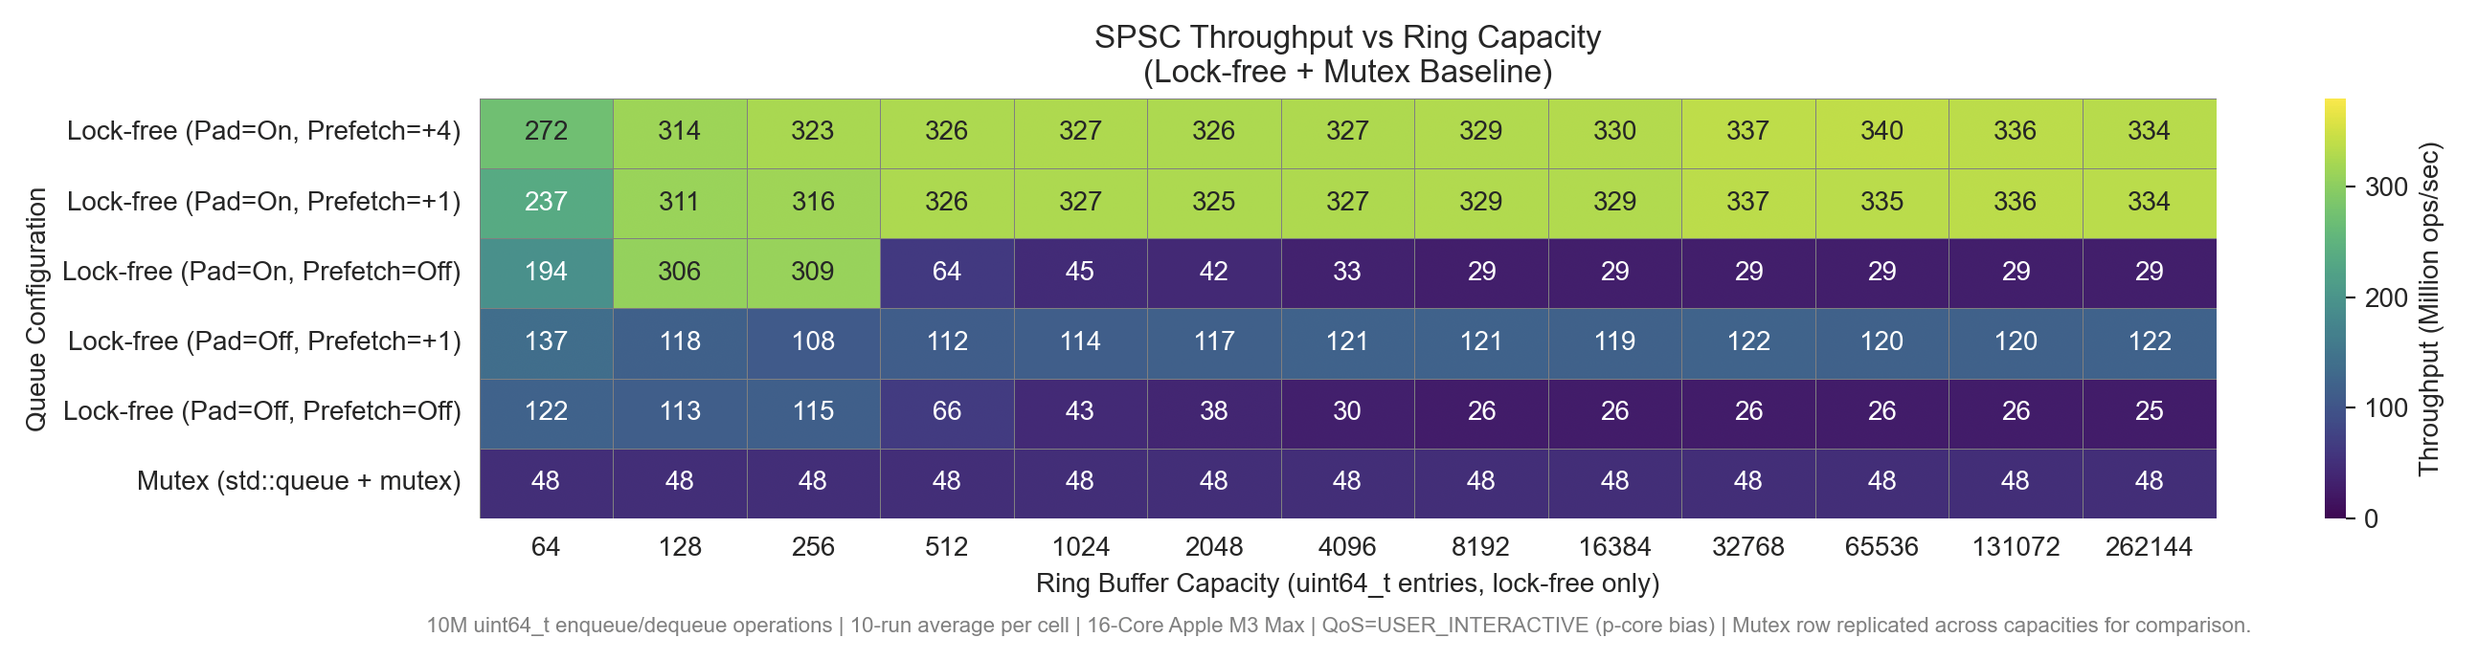
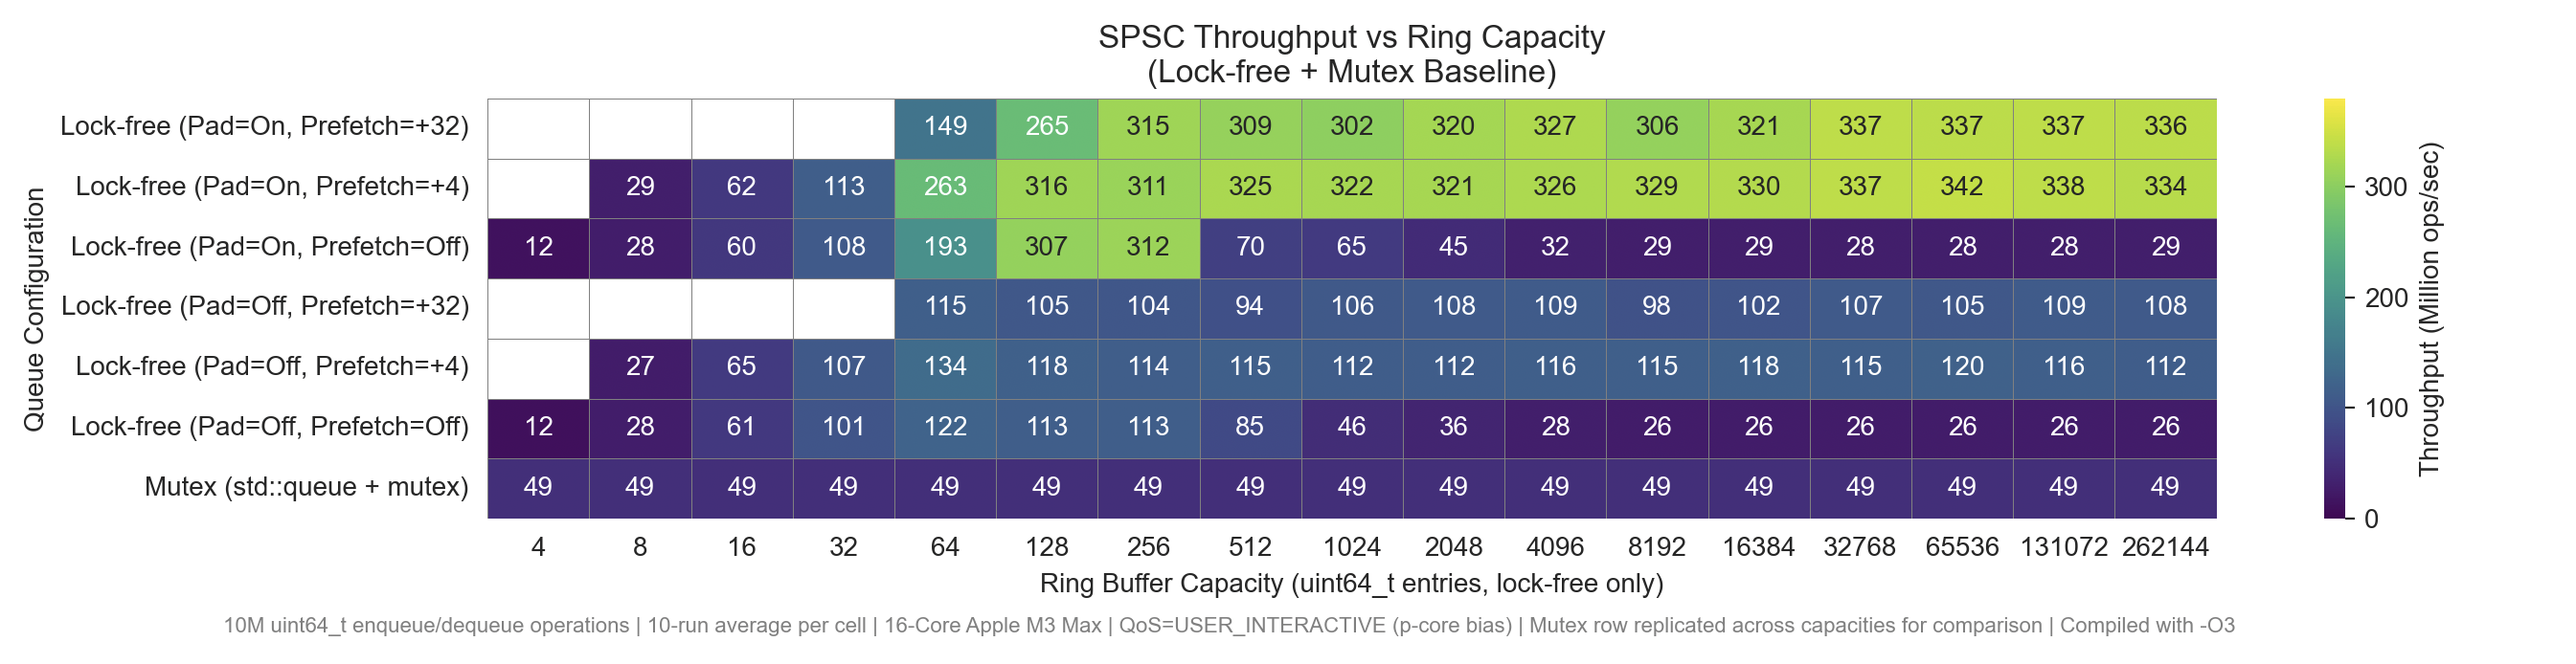
prefetch experimentation

Changed region(s): [[0.0, 0.0304, 0.9892, 0.9739]]

diff --git a/examples/spsc_queue/spsc_queue.test.cpp b/examples/spsc_queue/spsc_queue.test.cpp
@@ -37,6 +37,19 @@ static inline void set_affinity_tag(int tag) {
 
 #endif
 
+
+static inline void cpu_wait() noexcept {
+#if defined(__aarch64__)
+    __asm__ __volatile__("yield");
+#elif defined(__x86_64__)
+    _mm_pause();
+#else 
+    __asm__ __volatile__("" ::: "memory");
+#endif
+}
+
+
+
 static inline void setup_benchmark_thread() {
 #if defined(__APPLE__)
     set_qos_high(true);
@@ -58,7 +71,7 @@ ThreadPair dispatchThreads(QueueType& queue, std::uint64_t number) {
 
             for (uint64_t i = number; i > 0; --i) {
                 while (!queue.try_enqueue(i)) {
-                    std::this_thread::yield();
+                    std::this_thread::yield(); 
                 }
             }
         })
@@ -78,7 +91,7 @@ ThreadPair dispatchThreads(QueueType& queue, std::uint64_t number) {
                     }                    
                     decrementor--;
                 }
-                else std::this_thread::yield();
+                else std::this_thread::yield(); 
             }
         })        
     };
@@ -117,21 +130,23 @@ void vary_parameters_per_capacity(std::uint64_t number, uint8_t num_sims) {
         constexpr bool cache_padding   = decltype(ena_cache_padding)::value;
         constexpr std::size_t prefetch = decltype(ena_prefetch)::value;
 
-        double time_sum = 0;
-        double minimum  = std::numeric_limits<double>::max();
-        double maximum  = 0;
-        double current_sim_length = 0;
+        if constexpr (prefetch < (capacity - 2)) {
+            double time_sum = 0;
+            double minimum  = std::numeric_limits<double>::max();
+            double maximum  = 0;
+            double current_sim_length = 0;
 
-        for (uint8_t sim_num = 0; sim_num < num_sims; sim_num++) {
-            current_sim_length = run_single_sim<capacity, cache_padding, prefetch>(number);
-            time_sum += current_sim_length;
+            for (uint8_t sim_num = 0; sim_num < num_sims; sim_num++) {
+                current_sim_length = run_single_sim<capacity, cache_padding, prefetch>(number);
+                time_sum += current_sim_length;
 
-            if (current_sim_length < minimum) minimum = current_sim_length;
-            if (current_sim_length > maximum) maximum = current_sim_length;
+                if (current_sim_length < minimum) minimum = current_sim_length;
+                if (current_sim_length > maximum) maximum = current_sim_length;
+            }
+
+            double avg_sim_time = time_sum / num_sims;
+            std::cout << "lock-free,uint64_t," << int(num_sims) << "," << capacity << "," << cache_padding << "," << prefetch << "," << avg_sim_time << "," << maximum << "," << minimum << "," << number << "\n";
         }
-
-        double avg_sim_time = time_sum / num_sims;
-        std::cout << "lock-free,uint64_t," << int(num_sims) << "," << capacity << "," << cache_padding << "," << prefetch << "," << avg_sim_time << "," << maximum << "," << minimum << "," << number << "\n";
     };
 
     using prefetchOff = std::integral_constant<std::size_t, 0>;
@@ -140,12 +155,16 @@ void vary_parameters_per_capacity(std::uint64_t number, uint8_t num_sims) {
     using prefetchFour = std::integral_constant<std::size_t, 4>;
     using prefetchEight= std::integral_constant<std::size_t, 8>;
     using prefetchSixteen= std::integral_constant<std::size_t, 16>;
+    using prefetchThirtyTwo= std::integral_constant<std::size_t, 32>;
+    using prefetchSixtyFour= std::integral_constant<std::size_t, 64>;
 
     // note that prefetch is a uint8_t now.....
     run_sims(std::bool_constant<false>{}, prefetchOff{});
     run_sims(std::bool_constant<false>{}, prefetchOne{});
     //run_sims(std::bool_constant<false>{}, prefetchTwo{});
     run_sims(std::bool_constant<false>{}, prefetchFour{});
+    run_sims(std::bool_constant<false>{}, prefetchThirtyTwo{});
+    //run_sims(std::bool_constant<false>{}, prefetchSixtyFour{});
     //run_sims(std::bool_constant<false>{}, prefetchEight{});
     //run_sims(std::bool_constant<false>{}, prefetchSixteen{});
 
@@ -155,6 +174,8 @@ void vary_parameters_per_capacity(std::uint64_t number, uint8_t num_sims) {
     run_sims(std::bool_constant<true>{},  prefetchFour{});
     //run_sims(std::bool_constant<true>{},  prefetchEight{});
     //run_sims(std::bool_constant<true>{},  prefetchSixteen{});
+    run_sims(std::bool_constant<true>{}, prefetchThirtyTwo{});
+    //run_sims(std::bool_constant<true>{}, prefetchSixtyFour{});
 }
 
 template <std::size_t... capacities>
@@ -191,7 +212,7 @@ int main() {
     constexpr uint8_t  num_sims = 10;
 
     std::cout << "queue_type,type,numsims,capacity,cache_padding,prefetch,avg_sim_time,max_sim_time,min_sim_time,num_enq_deq\n";
-    run_many_capacities<64, 128, 256, 512, 1024, 2048, 4096, 8192, 16384, 32768, 65536, 131072, 262144/*, 524288, 1048576, 2097152, 4194304*/>(number, num_sims);
+    run_many_capacities<4, 8, 16, 32, 64, 128, 256, 512, 1024, 2048, 4096, 8192, 16384, 32768, 65536, 131072, 262144/*, 524288, 1048576, 2097152, 4194304*/>(number, num_sims);
     run_mutex_queue(number, num_sims);
 
     return 0;

diff --git a/include/foundry_runtime/atomic_spsc_queue/spsc_queue.h b/include/foundry_runtime/atomic_spsc_queue/spsc_queue.h
@@ -31,7 +31,7 @@ class spsc_queue {
     static_assert(capacity >= 2);
     static_assert(std::is_trivially_copyable_v<T>, "Trivially Copyable T NOT Provided...");    
     static_assert((capacity & (capacity - 1)) == 0, "capacity must be power of two...");
-    static_assert((prefetch_distance < (capacity / 2)));
+    static_assert((prefetch_distance < (capacity - 2)));
 
     static constexpr std::size_t capacity_mask = capacity - 1;
 
@@ -97,7 +97,6 @@ public:
             cached_write_loc = write_next.r_w_index.load(std::memory_order_acquire);
             if (current_read_loc == cached_write_loc) return false;
         }
-
         if constexpr (prefetch_distance > 0) {
             const auto prefetch_index = (current_read_loc + prefetch_distance) & capacity_mask;
             sw_prefetch_read(&queue[prefetch_index]);

diff --git a/README.md b/README.md
@@ -1,6 +1,32 @@
-## Foundry Runtime
+# Foundry Runtime
 This is a collection of various runtime tools as well as a personal exploration/proving ground. I will add descriptions to this doc as the tools are written and provide APIs/a usage guide.  
 
-### SPSC Lock-Free Queue
+## SPSC Lock-Free Queue
+This is a single-producer, single-consumer lock-free queue implementation. It currently only works for trivially copyable types (proof of concept), but I am currently working on making it valid for all types. The API is quite simple and is intended to be used by two separate threads (consumer and producer).  
+  
+It is defined as follows:  
+```
+foundry_runtime::spsc_queue<class T, size_t capacity = 128, bool enable_cacheline_padding = false, size_t prefetch_distance = 0>
+```
+`T` is the type contained in the queue. Currently it is only valid for trivially copyable types and will generate a compiler error otherwise.  
+  
+`capacity` is the size of the ring-buffer (just an array of type T) that the queue is implemented as. `capacity` must be a power of 2.  
+  
+`enable_cacheline_padding` is a performance optimization that stores the atomic read and write (enqueue + dequeue) indices into a struct that is aligned to the size of a cacheline (128 bytes for Apple M-Series computers). This struct is then padded with a char buffer that is never referenced to the length of the cacheline not occupied by the atomic index. As a result, we don't get cache invalidate ping-pong between the two cores running the producer and consumer threads (especially when the read and write indices would share the same cacheline otherwise). 
+   
+`prefetch_distance` is another performance optimization that uses software read and write prefetch instructions to hint the CPU to pull entries in the ring buffer into the L1 cache of the core running the thread that will soon need them before a read or write occurs. This reduces CPU stalls while the core goes and fetches the line (can be 100s of wasted cycles if not more). The distance ahead in the queue (array) that will be prefetched can be modulated by this template parameter. 0 disables prefetch. Any number beyond this specifies how many entries ahead we prefetch. For example, if we have a uint64_t and specify a `prefetch_distance` of 4, then we will be prefetching 32 bytes ahead (on M3 a quarter-line).  
+  
 
-![Example Image](examples/spsc_queue/figures/spsc_data.png)
+### SPSC Queue Performance Experiments
+Although I definitely have some utility for this, I used this as an exercise to explore how these various optimizations vary in performance with various ring buffer capacities. I also compared performance to generic mutex wrapped `std::queue`. I ran 10 million enqueue and dequeue operations 10 times per queue size and optimization permutation and averaged the result into one entry in the plot below. These were all run on my Apple M3 Max with `QoS=USER_INTERACTIVE` to bias towards p-cores, although MacOS provides no user APIs I am aware of that allows me explicitly schedule a thread to be run on a p-core. It is additionally worth noting that I compiled with the -O3 clang compiler flag and that the producer/consumer threads yield on a failure to enqueue or dequeue although experiments with busy waiting did not meaningfully change performance.  
+  
+![SPSC Optimization Data](examples/spsc_queue/figures/spsc_data.png)
+The results are quite interesting and illustrate some interesting microarchitectural performance regimes. I will lay out some of my observations and interpretations below. 
+1. The lock-free queue of `uint64_t` without prefetch and r/w index padding outperforms a standard mutex queue between ~16-512 entries (128 B to 4 KB). In this range, the entire ring buffer fits easily within each core's 128 KB L1d and is thus not bound by capacity and L2/L3 latency. The mutex implementation adds memory fences, lock/unlock operations, as well as additional branching to serialize execution independent of cacheline contention. The lock-free implementation instead uses atomic r/w index updates. Despite significant traffic between cores, the lock-free queue achieves ~2x throughput in this range (really just ~32-256).  
+At small sizes (~4-16 entries), the producer and consumer repeatedly operate on the same cachelines in tight sequence. Each enqueue requires exclusive line ownership with subsequent reads from the consumer. The lines are invalidated and ownership is transferred between cores so frequently that the queue stalls, throttling throughput.  
+For larger queue sizes (>~512 entries), although they are all relatively small/fit entirely in the L1d, the reuse distance increases. As a result these lines are less likely to remain hot in the producer's L1d. Without software prefetch, enqueue operations (queue writes) see read for ownership (RFO) latency begin to dominate causing the throughput to collapse as the queue becomes bound by L2/L3 latency (RFOs resolved higher up in the hierarchy). At higher buffer sizes, throughput collapses and ownership latency exceeds mutex latency.  
+The lock-free queue transitions from coherence-limited, to RFO latency limited as ring size increases, finding a local maximum between ~16-512 entries, while the mutex based queue is synchronization limited independent of size.  
+**MORE TO COME/WIP**
+
+  
+![Prefetch Experiment](examples/spsc_queue/figures/prefetch_experiment.png)
